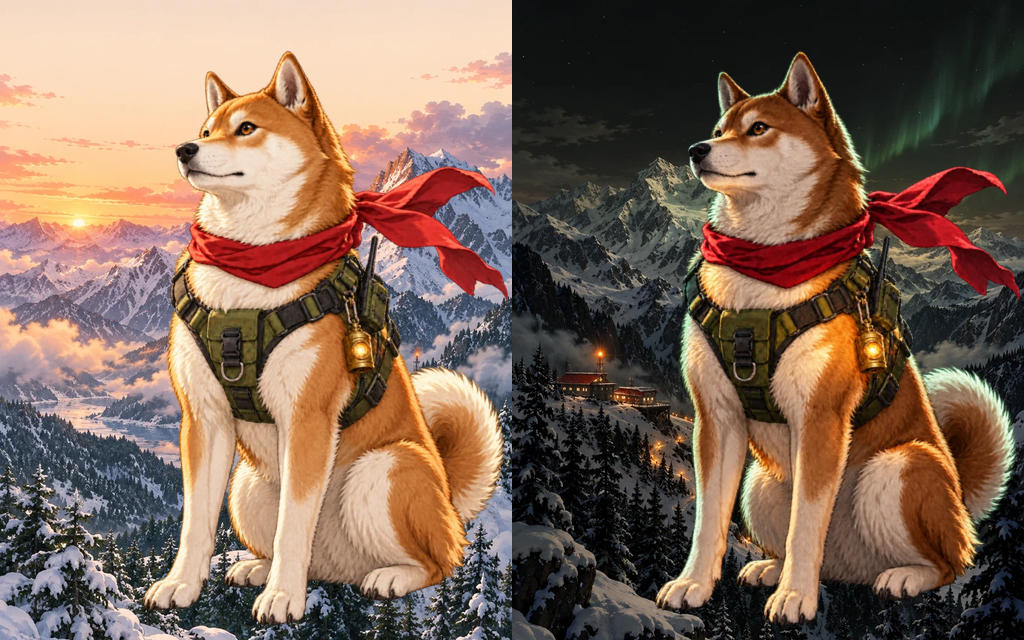
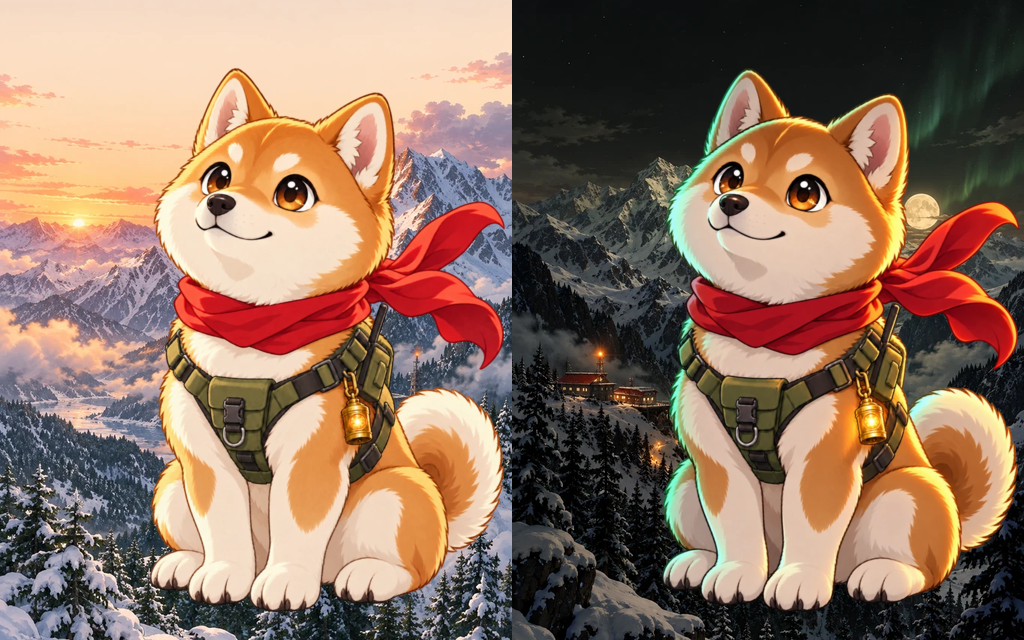
refine: give cat and dog themes cute anime characters

diff --git a/src/alpine-dispatch/CREDITS.md b/src/alpine-dispatch/CREDITS.md
@@ -4,9 +4,9 @@ All illustrations are original artwork generated for Muqun with OpenAI's built-i
 
 ## Illustration prompt record
 
-- `assets/home-light.webp`: Original heroic Shiba Inu alpine rescue companion, richly painted russet and cream fur, crimson windblown scarf, olive radio harness and brass beacon. Complete seated dog, alert gaze to the left, warm sunlight, premium hand-inked Japanese anime with painterly cel shading. A dedicated background-extraction edit removed every background plane to real alpha.
+- `assets/home-light.webp`: Original lovable Japanese anime Shiba Inu alpine rescue companion, rounded plush cheeks, oversized sparkling amber eyes, small smiling muzzle, plump paws and simplified russet and cream cel-shaded fur, crimson windblown scarf, olive radio harness and brass beacon. Complete seated dog, alert gaze to the left, warm sunlight, premium hand-inked Japanese animation character design. A framing edit restored safe space around the ears and scarf; the generated figure has genuine alpha. This replaces the earlier realistic dog design.
 - `assets/home-dark.webp`: Lighting-only edit of the same seated illustration, jade moon rim, amber beacon reflections and warm charcoal shadows. Anatomy, accessories and transparent silhouette preserved.
-- `assets/launch-light.webp`: Independent standing pose of the same rescue dog with a coiled climbing rope and carabiner. Complete ears, paws, tail and scarf. Separate from the seated Home composition. Follow-up edit removed the background and replaced the initial cross patch with an original compass triangle.
+- `assets/launch-light.webp`: Independent standing pose of the same cute anime rescue dog with a coiled climbing rope and carabiner. Complete ears, paws, tail and scarf. Separate from the seated Home composition. The complete rope, backpack, short rounded paws, ears, scarf and curled tail are visible against genuine transparency.
 - `assets/launch-dark.webp`: Night-lighting edit of the complete standing vignette. Jade moon rim and warm amber beacon, transparent alpha preserved.
 - `assets/wallpaper-light.webp`: Original Japanese Alps rescue valley after snowstorm: monumental snow peaks, pine forests, red-roof rescue station, tiny amber beacons and pale gold sunrise clouds. Rich hand-painted anime environment, no people or lettering.
 - `assets/wallpaper-dark.webp`: Independently generated midnight alpine rescue valley: dark fir forest, jade moonlight, restrained aurora and amber beacon trail. Warm black-green sky rather than a blue color filter.
@@ -16,7 +16,7 @@ Illustrations were generated and edited with the built-in image tool, then resiz
 
 ## Original icon system
 
-The seven `assets/icon-*.png` images are original geometric drawings by Muqun, rendered from paths at 128 x 128. Rescue-map notation provides a consistent squared stroke language with clear control semantics at 17 pt: return arrow, compass send, rope-loop attachment, create cross with map corners, scanning reticle, hexagonal settings dial and northeast waypoint arrow. They are template masks, so the App supplies the active theme tint in both modes. No SVG is included in the package.
+The seven `assets/icon-*.png` images are original geometric drawings by Muqun, rendered from paths at 128 x 128. Friendly rescue notation provides consistent rounded strokes with clear control semantics at 17 pt: a single left return arrow with curved endpoint, compass send, rope-loop attachment, circled create cross, rounded scanning reticle, circular settings dial and northeast waypoint arrow. They are template masks, so the App supplies the active theme tint in both modes. No SVG is included in the package.
 
 All seven roles supported by the current authoring contract are populated: `chrome.back`, `chrome.send`, `chrome.attach`, `chrome.create`, `chrome.scan`, `chrome.settings`, `home.arrow`. The arrow's source orientation is explicitly `up-right`. Other native App glyphs remain native; this theme does not invent unsupported icon replacement slots.
 

diff --git a/src/glasshouse-prowler/CREDITS.md b/src/glasshouse-prowler/CREDITS.md
@@ -2,10 +2,12 @@
 
 All character and botanical conservatory illustrations were generated specifically for this original Muqun theme with OpenAI image generation on September 26, 2026. No third-party franchise characters, photographs, or reference artwork were used. Source: this authoring session; no public source URL. Released with this theme under CC0-1.0.
 
-- `assets/home-light.webp`, `assets/home-dark.webp`: original silver Maine Coon portrait, preserved alpha.
-- `assets/launch-light.webp`, `assets/launch-dark.webp`: independently generated complete standing cat with watering can and fern, preserved alpha. Shared neutral fur artwork is intentional across both modes.
+- `assets/home-light.webp`, `assets/home-dark.webp`: original cute cel-shaded silver tabby kitten portrait, preserved alpha.
+- `assets/launch-light.webp`, `assets/launch-dark.webp`: independently generated complete playful anime kitten with watering can and fern, preserved alpha. Shared neutral fur artwork is intentional across both modes.
 - `assets/wallpaper-light.webp`, `assets/wallpaper-dark.webp`: independently generated daylight and midnight botanical glasshouse paintings.
-- `assets/icon-*.png`: seven original botanical geometric vector glyphs authored for this theme and rasterized to transparent PNG, CC0-1.0.
+- `assets/icon-*.png`: seven original friendly rounded botanical vector glyphs authored for this theme and rasterized to transparent PNG, CC0-1.0.
 - `assets/preview.png`: composited from this theme's own assets and palette, CC0-1.0.
 
 The supported replacement roles are chrome.back, chrome.send, chrome.attach, chrome.create, chrome.scan, chrome.settings, and home.arrow. Other App glyphs retain the built-in rendering. The Home arrow points up-right and declares its source direction.
+
+The kitten illustrations were regenerated as explicitly stylized Japanese-animation characters: rounded faces, expressive emerald eyes and simplified cel-shaded fur. They replace the earlier realistic cat studies, which are not shipped.
